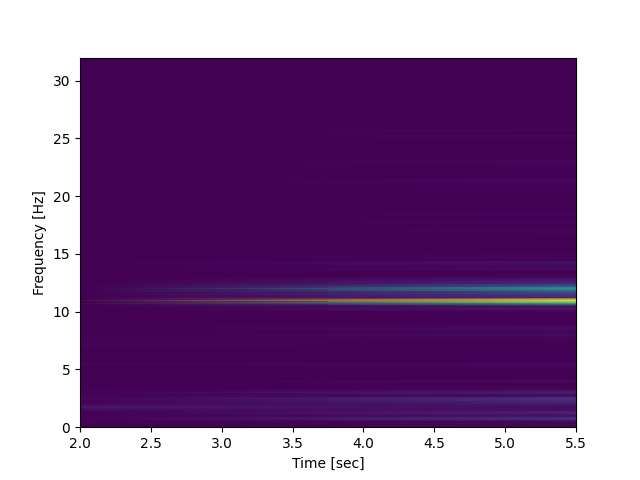
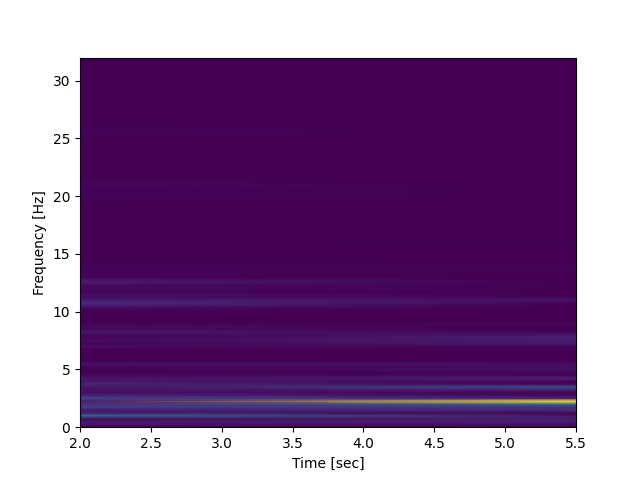
specto update with chunks

Changed region(s): [[0.125, 0.7812, 0.9062, 0.875], [0.125, 0.5625, 0.9062, 0.6562], [0.8125, 0.6875, 0.9062, 0.7188]]

diff --git a/spectograms.py b/spectograms.py
@@ -7,7 +7,7 @@ import numpy as np
 
 rng = np.random.default_rng()
 # Import Data and format
-df = pd.read_csv(join("./data/accelerometer_data_section_1.csv"))
+df = pd.read_csv(join("./data/accelerometer_data_section_5.csv"))
 df['Timestamp'] = pd.to_datetime(df['Timestamp'], infer_datetime_format=True)
 # df['Timestamp'] = range(len(df['Timestamp']))
 
